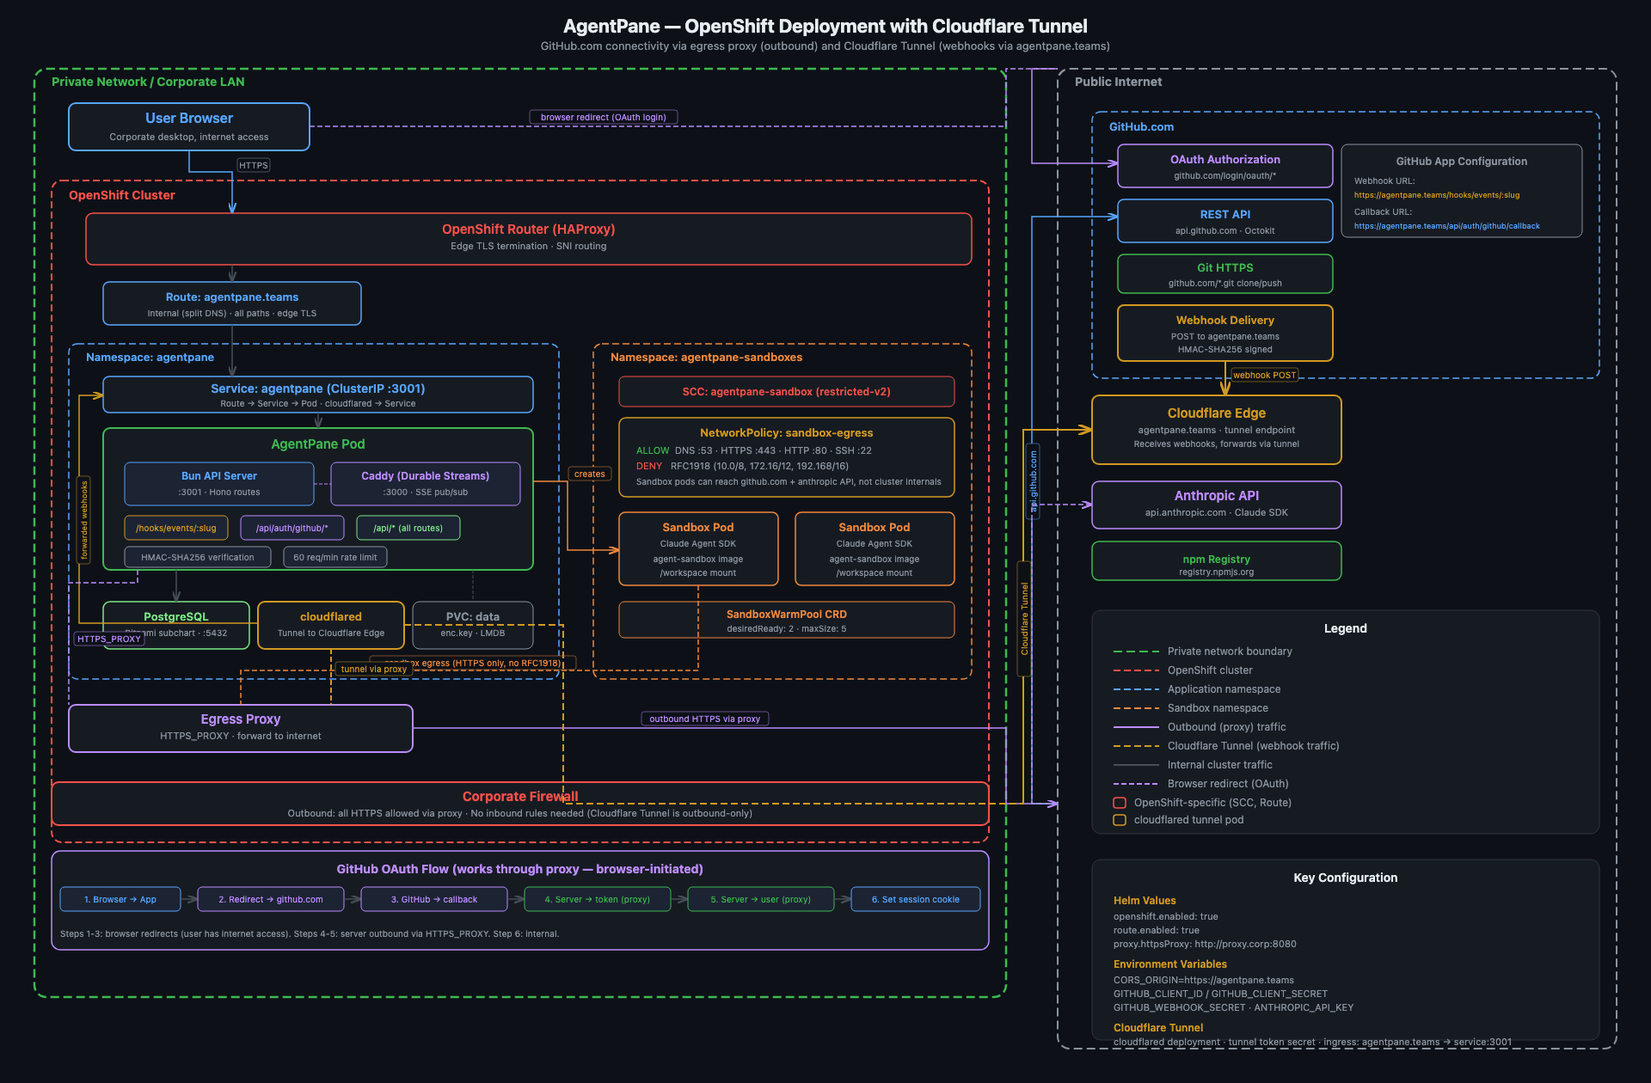
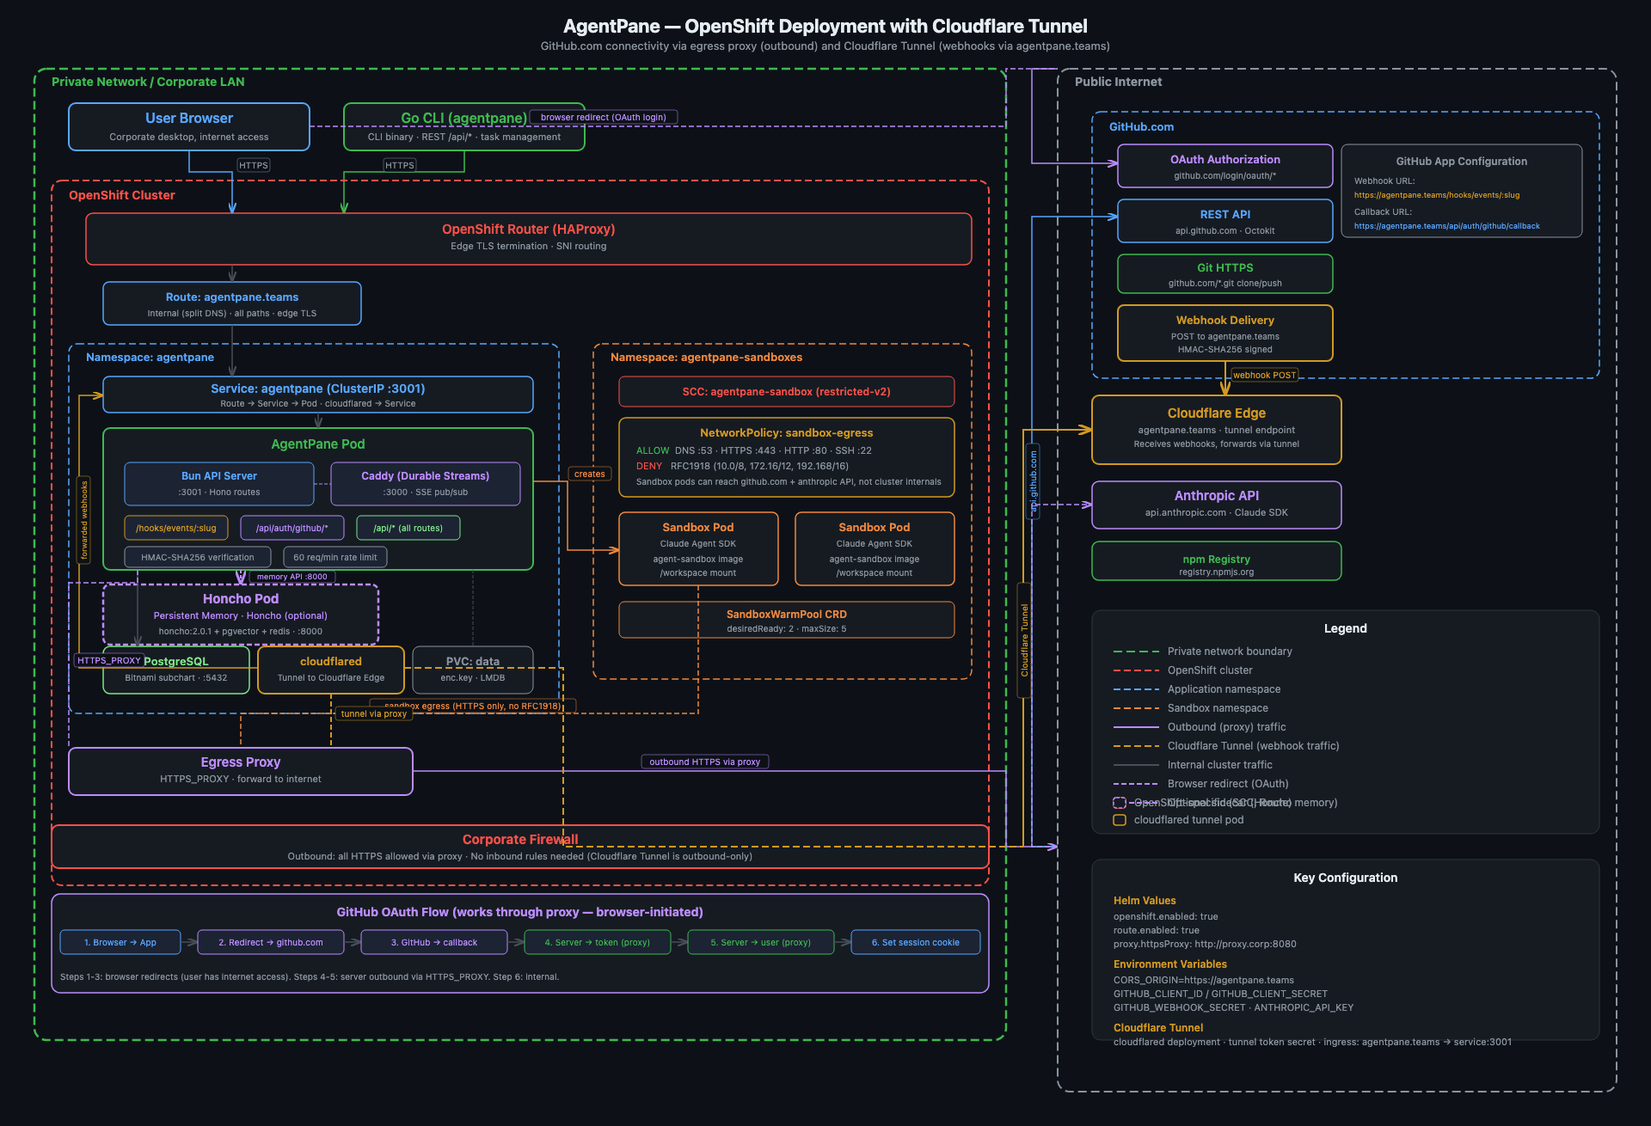
docs: promote CLI + memory layer, regenerate PNGs, expand README
- Promote Go CLI to top-level client alongside Browser in diagrams
- Create dedicated Memory Layer subgraph (Honcho + pgvector + Redis)
- Regenerate all 5 PNG screenshots from updated HTML via Playwright
- Expand README with detailed descriptions for all PR #108-#112 features
- Add Organization section (folder hierarchy), CLI & SDK section
- Add Memory Service integration details under Integrations

diff --git a/docs/_architecture-diagram.html b/docs/_architecture-diagram.html
@@ -10,7 +10,7 @@ svg { display: block; }
 </style>
 </head>
 <body>
-<svg xmlns="http://www.w3.org/2000/svg" viewBox="0 0 1620 1310" width="1620" height="1310">
+<svg xmlns="http://www.w3.org/2000/svg" viewBox="0 0 1620 1280" width="1620" height="1280">
 <defs>
   <marker id="arrow-gray" markerWidth="8" markerHeight="6" refX="8" refY="3" orient="auto">
     <path d="M0,0 L8,3 L0,6" fill="none" stroke="#484f58" stroke-width="1.5"/>
@@ -30,10 +30,13 @@ svg { display: block; }
   <marker id="arrow-green" markerWidth="8" markerHeight="6" refX="8" refY="3" orient="auto">
     <path d="M0,0 L8,3 L0,6" fill="none" stroke="#3fb950" stroke-width="1.5"/>
   </marker>
+  <marker id="arrow-memory" markerWidth="8" markerHeight="6" refX="8" refY="3" orient="auto">
+    <path d="M0,0 L8,3 L0,6" fill="none" stroke="#a855f7" stroke-width="1.5"/>
+  </marker>
 </defs>
 
 <!-- Background -->
-<rect width="1620" height="1310" fill="#0d1117"/>
+<rect width="1620" height="1280" fill="#0d1117"/>
 
 <!-- ==================== TOP ROW: Browser + TanStack DB ==================== -->
 <!-- Browser -->
@@ -46,12 +49,21 @@ svg { display: block; }
 <text x="530" y="48" text-anchor="middle" fill="#58a6ff" font-size="16" font-weight="600">TanStack DB</text>
 <text x="530" y="66" text-anchor="middle" fill="#8b949e" font-size="11">sessions · taskStubs · sandbox · skills · codespaces</text>
 
+<!-- Go CLI Client (NEW - PR #110, promoted to top-level) -->
+<rect x="720" y="25" width="280" height="55" rx="8" fill="#161b22" stroke="#3fb950" stroke-width="2"/>
+<text x="860" y="48" text-anchor="middle" fill="#3fb950" font-size="16" font-weight="700">Go CLI</text>
+<text x="860" y="66" text-anchor="middle" fill="#8b949e" font-size="11">agentpane binary · REST API consumer</text>
+
 <!-- Connection: Browser <-> TanStack DB -->
 <line x1="340" y1="52" x2="400" y2="52" stroke="#484f58" stroke-width="1.5" stroke-dasharray="6,3"/>
 
 <!-- Connection: Browser -> Caddy -->
 <line x1="240" y1="80" x2="240" y2="125" stroke="#484f58" stroke-width="1.5" marker-end="url(#arrow-gray)"/>
 <text x="250" y="107" fill="#8b949e" font-size="10">HTTP</text>
+
+<!-- Connection: Go CLI -> Caddy (top-level) -->
+<path d="M 860 80 L 860 110 L 420 110 L 420 158" fill="none" stroke="#3fb950" stroke-width="1.5" marker-end="url(#arrow-green)"/>
+<text x="870" y="105" fill="#3fb950" font-size="10">REST</text>
 
 <!-- ==================== HOST SECTION (green dashed) ==================== -->
 <rect x="30" y="125" width="1120" height="600" rx="12" fill="none" stroke="#3fb950" stroke-width="2" stroke-dasharray="8,4"/>
@@ -248,8 +260,36 @@ svg { display: block; }
 <!-- Connection: Event tables -> Drizzle ORM -->
 <path d="M 1200 560 L 1170 560 L 1170 342 L 770 342" fill="none" stroke="#d29922" stroke-width="1" stroke-dasharray="4,2"/>
 
+<!-- ==================== MEMORY LAYER (PR #111) ==================== -->
+<rect x="1200" y="640" width="380" height="120" rx="10" fill="none" stroke="#a855f7" stroke-width="2" stroke-dasharray="8,4"/>
+<text x="1220" y="660" fill="#a855f7" font-size="12" font-weight="600">Persistent Memory · Honcho (optional)</text>
+
+<!-- Honcho API -->
+<rect x="1220" y="670" width="160" height="48" rx="8" fill="#161b22" stroke="#a855f7" stroke-width="1.5"/>
+<text x="1300" y="691" text-anchor="middle" fill="#a855f7" font-size="14" font-weight="600">Honcho API</text>
+<text x="1300" y="708" text-anchor="middle" fill="#8b949e" font-size="10">@honcho-ai/sdk · :8000</text>
+
+<!-- pgvector PostgreSQL -->
+<rect x="1220" y="724" width="160" height="28" rx="6" fill="#161b22" stroke="#a855f7" stroke-width="1"/>
+<text x="1300" y="742" text-anchor="middle" fill="#a855f7" font-size="11" font-weight="600">pgvector :5433</text>
+
+<!-- Redis -->
+<rect x="1400" y="670" width="160" height="48" rx="8" fill="#161b22" stroke="#a855f7" stroke-width="1.5"/>
+<text x="1480" y="691" text-anchor="middle" fill="#a855f7" font-size="14" font-weight="600">Redis</text>
+<text x="1480" y="708" text-anchor="middle" fill="#8b949e" font-size="10">cache · :6380</text>
+
+<!-- Connection: Honcho -> pgvector -->
+<line x1="1300" y1="718" x2="1300" y2="724" stroke="#a855f7" stroke-width="1.5" marker-end="url(#arrow-memory)"/>
+
+<!-- Connection: Honcho -> Redis -->
+<line x1="1380" y1="694" x2="1400" y2="694" stroke="#a855f7" stroke-width="1.5" stroke-dasharray="4,2"/>
+
+<!-- Connection: MemoryService -> Honcho API (prominent) -->
+<path d="M 250 471 L 280 471 L 280 510 L 780 510 L 780 660 L 1155 660 L 1155 694 L 1220 694" fill="none" stroke="#a855f7" stroke-width="2" marker-end="url(#arrow-memory)"/>
+<text x="900" y="654" fill="#a855f7" font-size="10" font-weight="600">memory queries</text>
+
 <!-- ==================== LEGEND ==================== -->
-<rect x="1200" y="148" width="310" height="195" rx="10" fill="#161b22" stroke="#30363d" stroke-width="1"/>
+<rect x="1200" y="148" width="310" height="218" rx="10" fill="#161b22" stroke="#30363d" stroke-width="1"/>
 <text x="1355" y="172" text-anchor="middle" fill="#e6edf3" font-size="14" font-weight="600">Legend</text>
 
 <line x1="1222" y1="192" x2="1275" y2="192" stroke="#484f58" stroke-width="2"/>
@@ -271,7 +311,10 @@ svg { display: block; }
 <text x="1285" y="306" fill="#8b949e" font-size="12">Runtime boundary</text>
 
 <line x1="1222" y1="324" x2="1275" y2="324" stroke="#f69d50" stroke-width="2" stroke-dasharray="8,4"/>
-<text x="1285" y="328" fill="#8b949e" font-size="12">AWS cloud boundary (new)</text>
+<text x="1285" y="328" fill="#8b949e" font-size="12">AWS cloud boundary</text>
+
+<line x1="1222" y1="346" x2="1275" y2="346" stroke="#a855f7" stroke-width="2" stroke-dasharray="8,4"/>
+<text x="1285" y="350" fill="#8b949e" font-size="12">Memory layer</text>
 
 <!-- ==================== RUNTIME SECTIONS ==================== -->
 
@@ -347,7 +390,7 @@ svg { display: block; }
 <text x="1148" y="954" fill="#f69d50" font-size="8">SSE</text>
 
 <!-- ==================== EXTERNAL SERVICES ==================== -->
-<rect x="50" y="1110" width="1510" height="170" rx="12" fill="none" stroke="#8b949e" stroke-width="2" stroke-dasharray="8,4"/>
+<rect x="50" y="1110" width="1510" height="140" rx="12" fill="none" stroke="#8b949e" stroke-width="2" stroke-dasharray="8,4"/>
 <text x="70" y="1130" fill="#8b949e" font-size="12" font-weight="600">External Services</text>
 
 <!-- Anthropic API -->
@@ -380,15 +423,7 @@ svg { display: block; }
 <text x="1160" y="1218" text-anchor="middle" fill="#f69d50" font-size="12" font-weight="600">AWS Bedrock API</text>
 <text x="1160" y="1232" text-anchor="middle" fill="#8b949e" font-size="9">STS · ECR · Agent Runtime</text>
 
-<!-- Honcho API (NEW - PR #111) -->
-<rect x="80" y="1248" width="180" height="28" rx="7" fill="#161b22" stroke="#bc8cff" stroke-width="1.5"/>
-<text x="170" y="1264" text-anchor="middle" fill="#bc8cff" font-size="11" font-weight="600">Honcho API</text>
-<text x="170" y="1274" text-anchor="middle" fill="#8b949e" font-size="8">pgvector + Redis</text>
-
-<!-- Go CLI (NEW - PR #110) -->
-<rect x="280" y="1248" width="180" height="28" rx="7" fill="#161b22" stroke="#3fb950" stroke-width="1.5"/>
-<text x="370" y="1264" text-anchor="middle" fill="#3fb950" font-size="11" font-weight="600">Go CLI</text>
-<text x="370" y="1274" text-anchor="middle" fill="#8b949e" font-size="8">agentpane binary</text>
+<!-- Honcho API and Go CLI promoted to dedicated sections above -->
 
 <!-- Connection: GitHub Webhooks -> Event System (drops below service boxes, then far right) -->
 <path d="M 1030 1220 L 1030 1245 L 1580 1245 L 1580 478 L 1160 478" fill="none" stroke="#d29922" stroke-width="1.5" stroke-dasharray="6,3" marker-end="url(#arrow-orange)"/>
@@ -405,14 +440,12 @@ svg { display: block; }
 <!-- Connection: AgentCore -> Anthropic API (left side, routes below Nomad's y=1090 to avoid crossing) -->
 <path d="M 1080 1050 L 1080 1100 L 450 1100 L 450 1145" fill="none" stroke="#bc8cff" stroke-width="1.5" stroke-dasharray="6,3" marker-end="url(#arrow-purple)"/>
 
-<!-- Connection: MemoryService -> Honcho API (NEW) -->
-<path d="M 160 490 L 160 660 L 40 660 L 40 1090 L 70 1090 L 70 1264 L 80 1264" fill="none" stroke="#bc8cff" stroke-width="1" stroke-dasharray="6,3" marker-end="url(#arrow-purple)"/>
+<!-- Connection: MemoryService -> Honcho API moved to Memory Layer section above -->
 
 <!-- Connection: Container Agent -> SkillInjector (NEW) -->
 <line x1="360" y1="504" x2="360" y2="490" stroke="#58a6ff" stroke-width="1" stroke-dasharray="4,2" marker-end="url(#arrow-blue)"/>
 
-<!-- Connection: Go CLI -> Hono API Server (NEW) -->
-<path d="M 370 1248 L 370 1095 L 25 1095 L 25 261 L 70 261" fill="none" stroke="#3fb950" stroke-width="1" stroke-dasharray="6,3" marker-end="url(#arrow-green)"/>
+<!-- Connection: Go CLI -> Hono API Server moved to top-level Go CLI section above -->
 
 </svg>
 </body>

diff --git a/docs/_openshift-deployment.html b/docs/_openshift-deployment.html
@@ -52,14 +52,14 @@ svg { display: block; }
 <text x="220" y="163" text-anchor="middle" fill="#8b949e" font-size="11">Corporate desktop, internet access</text>
 
 <!-- ==================== GO CLI ==================== -->
-<rect x="400" y="120" width="200" height="55" rx="8" fill="#161b22" stroke="#3fb950" stroke-width="2"/>
-<text x="500" y="143" text-anchor="middle" fill="#3fb950" font-size="16" font-weight="600">Go CLI</text>
-<text x="500" y="163" text-anchor="middle" fill="#8b949e" font-size="11">agentpane CLI · REST API client</text>
+<rect x="400" y="120" width="280" height="55" rx="8" fill="#161b22" stroke="#3fb950" stroke-width="2"/>
+<text x="540" y="143" text-anchor="middle" fill="#3fb950" font-size="16" font-weight="600">Go CLI (agentpane)</text>
+<text x="540" y="163" text-anchor="middle" fill="#8b949e" font-size="11">CLI binary · REST /api/* · task management</text>
 
 <!-- Connection: Go CLI -> Router (same route as Browser) -->
-<path d="M 500 175 L 500 200 L 400 200 L 400 248" fill="none" stroke="#3fb950" stroke-width="1.5" marker-end="url(#arrow-green)"/>
-<rect x="406" y="184" width="38" height="16" rx="3" fill="#0d1117" stroke="#8b949e" stroke-width="0.5"/>
-<text x="425" y="196" text-anchor="middle" fill="#8b949e" font-size="10">HTTPS</text>
+<path d="M 540 175 L 540 200 L 400 200 L 400 248" fill="none" stroke="#3fb950" stroke-width="1.5" marker-end="url(#arrow-green)"/>
+<rect x="446" y="184" width="38" height="16" rx="3" fill="#0d1117" stroke="#8b949e" stroke-width="0.5"/>
+<text x="465" y="196" text-anchor="middle" fill="#8b949e" font-size="10">HTTPS</text>
 
 <!-- ==================== OPENSHIFT CLUSTER ==================== -->
 <rect x="60" y="210" width="1090" height="820" rx="12" fill="none" stroke="#f85149" stroke-width="2" stroke-dasharray="8,4"/>
@@ -132,14 +132,15 @@ svg { display: block; }
 <line x1="370" y1="480" x2="370" y2="498" stroke="#484f58" stroke-width="1.5" marker-end="url(#arrow-gray)"/>
 
 <!-- Honcho Pod (optional memory sidecar) -->
-<rect x="120" y="680" width="210" height="55" rx="8" fill="#161b22" stroke="#bc8cff" stroke-width="1.5" stroke-dasharray="6,3"/>
-<text x="225" y="702" text-anchor="middle" fill="#bc8cff" font-size="13" font-weight="600">Honcho Pod</text>
-<text x="225" y="720" text-anchor="middle" fill="#8b949e" font-size="10">honcho:2.0.1 + pgvector + redis</text>
+<rect x="120" y="680" width="320" height="70" rx="8" fill="#161b22" stroke="#bc8cff" stroke-width="2.5" stroke-dasharray="6,3"/>
+<text x="280" y="702" text-anchor="middle" fill="#bc8cff" font-size="15" font-weight="700">Honcho Pod</text>
+<text x="280" y="720" text-anchor="middle" fill="#bc8cff" font-size="11">Persistent Memory &middot; Honcho (optional)</text>
+<text x="280" y="738" text-anchor="middle" fill="#8b949e" font-size="10">honcho:2.0.1 + pgvector + redis &middot; :8000</text>
 
 <!-- Connection: AgentPane Pod -> Honcho Pod (memory API) -->
-<path d="M 255 663 L 255 680" fill="none" stroke="#bc8cff" stroke-width="1.5" stroke-dasharray="4,2" marker-end="url(#arrow-purple)"/>
-<rect x="261" y="664" width="90" height="14" rx="3" fill="#0d1117" stroke="#bc8cff" stroke-width="0.5"/>
-<text x="306" y="674" text-anchor="middle" fill="#bc8cff" font-size="9">memory API :8000</text>
+<path d="M 280 663 L 280 680" fill="none" stroke="#bc8cff" stroke-width="2" stroke-dasharray="4,2" marker-end="url(#arrow-purple)"/>
+<rect x="290" y="664" width="100" height="14" rx="3" fill="#0d1117" stroke="#bc8cff" stroke-width="0.5"/>
+<text x="340" y="674" text-anchor="middle" fill="#bc8cff" font-size="9">memory API :8000</text>
 
 <!-- PostgreSQL -->
 <rect x="120" y="752" width="170" height="55" rx="8" fill="#161b22" stroke="#7ee787" stroke-width="1.5"/>

diff --git a/README.md b/README.md
@@ -10,13 +10,13 @@ Running AI agents in the background creates hard problems: agents need filesyste
 
 ## Architecture
 
-System-level view of the AgentPane platform showing the browser client, TanStack DB, Caddy durable streams, Bun API server, SQLite database, and sandbox infrastructure.
+System-level view of the AgentPane platform showing the browser client, Go CLI, TanStack DB, Caddy durable streams, Bun API server, persistent memory layer (Honcho + pgvector + Redis), skill injection pipeline, SQLite/PostgreSQL database, and multi-provider sandbox infrastructure.
 
 ![AgentPane Architecture](docs/_architecture-diagram.png)
 
 ### Tenancy Model
 
-Authentication, ownership hierarchy, and role-based access control — from GitHub OAuth through the workspace/folder/codespace/task ownership chain.
+Authentication, ownership hierarchy, and role-based access control. Shows the GitHub OAuth flow, workspace/folder/codespace/task ownership chain, folder-level membership with role inheritance, and how RBAC policies cascade from team → folder → codespace level.
 
 ![Tenancy Model](docs/tenancy-model.png)
 
@@ -49,7 +49,7 @@ Webhook ingestion pipeline: external sources (GitHub, Linear, Jira, cron) throug
 - **Session Replay** — Full session history with timeline, event filtering, and play/pause/seek controls
 - **Agent Topology** — Real-time React Flow graph showing live agent activity with ELK auto-layout
 - **AI-Assisted Planning** — Interactive planning sessions where Claude asks clarifying questions before execution
-- **Persistent Memory** — Agent memory powered by Honcho with automatic context injection, conclusion derivation, and semantic search across sessions
+- **Persistent Memory** — Agent memory powered by [Honcho](https://github.com/plastic-labs/honcho) with automatic context injection from previous sessions. The memory service derives conclusions from agent interactions, stores them in pgvector for semantic search, and injects relevant context into new agent prompts. Memory is scoped per-codespace and persists across agent sessions.
 
 ### Task Management
 
@@ -57,7 +57,7 @@ Webhook ingestion pipeline: external sources (GitHub, Linear, Jira, cron) throug
 - **Auto-Start** — Moving a task to "In Progress" automatically assigns and starts an agent
 - **AI Task Creation** — Claude asks multi-round clarifying questions to refine task requirements before submission
 - **Code Review** — Approve or reject agent changes with diff visualization before merge
-- **Live Task View** — 3-column layout with task list sidebar, real-time agent session view, and agent topology graph
+- **Live Task View** — Alternative to the Kanban board: a 3-column layout with resizable task list sidebar (status filters, search, keyboard navigation), real-time agent topology graph (React Flow + ELK auto-layout showing live agent activity), and audit trail panel with session events + live SSE streaming
 
 ### Sandboxed Execution
 
@@ -66,7 +66,7 @@ Webhook ingestion pipeline: external sources (GitHub, Linear, Jira, cron) throug
 - **Nomad Jobs** — HashiCorp Nomad sandbox provider for job-based agent isolation
 - **AWS Bedrock AgentCore** — Managed AWS runtimes with STS auth, ECR image validation, and orphan cleanup
 - **Per-Codespace or Shared** — Choose between a shared container or per-codespace isolation
-- **Skill Injection** — Org and template skills automatically materialized into `.claude/skills/` inside the sandbox before agent execution
+- **Skill Injection** — Tasks can reference a `skillId` that maps to a `.claude/skills/{skillId}/SKILL.md` file. Org and template skills are automatically materialized into the sandbox filesystem before agent execution. The agent prompt includes a lightweight `use skill {name}` directive — the agent reads the full skill content from disk.
 
 ### Terraform No-Code Composer
 
@@ -98,7 +98,17 @@ Webhook ingestion pipeline: external sources (GitHub, Linear, Jira, cron) throug
 - **CLI Monitor** — Real-time monitoring of Claude CLI sessions (`@agentpane/cli-monitor`)
 - **Durable Streams** — Real-time event streaming via Caddy front door (LMDB-backed SSE + long-poll)
 - **Encrypted API Keys** — UI-managed per-service API key storage with masked display
-- **Factory Hook Architecture** — `useEffect` banned; all side effects use purpose-built factory hooks (`useMountEffect`, `useWatchEffect`, `useInterval`, etc.)
+- **Factory Hook Architecture** — `useEffect` is banned via Biome lint rules. All side effects use purpose-built factory hooks: `useMountEffect()` for mount/unmount, `useWatchEffect()` for value changes, `useInterval()`, `useTimeout()`, `useEventListener()`, and `useAutoScroll()`. This eliminates exhaustive dependency lint suppressions and makes intent explicit.
+- **Memory Service** — Optional [Honcho](https://github.com/plastic-labs/honcho) sidecar for persistent agent memory. Deploys via `docker/docker-compose.memory.yml` with pgvector PostgreSQL and Redis. Agents automatically receive relevant context from prior sessions. Supports conclusions (derived facts), document indexing (RAG), and semantic search. Conditional — if Honcho isn't configured, memory endpoints don't exist.
+
+### Organization
+
+- **Folder Hierarchy** — 3-tier organizational model: Workspace → Project Folders → Codespaces. Folders group related codespaces with folder-level RBAC membership. Teams are linked to folders via `team_project_folders`, and access cascades from folder to codespace level.
+
+### CLI & SDK
+
+- **Go CLI** (`agentpane`) — Full-featured command-line interface for AgentPane. Manage codespaces, tasks, agents, sessions, and worktrees from the terminal. Supports JSON output (`-json` flag) for scripting and piping to `jq`. Configuration via environment variables (`AP_API_TOKEN`, `AP_ADDRESS`, `AP_CODESPACE`).
+- **Go SDK** — Typed Go client library at `cli/sdk/` for programmatic API access. Includes typed request/response structs for all API resources.
 
 ## Tech Stack
 

diff --git a/specs/diagrams/01-system-architecture.md b/specs/diagrams/01-system-architecture.md
@@ -8,6 +8,7 @@ In production, Caddy (durable-streams-server) is the single entry point on port 
 flowchart TB
     %% ── Clients ──
     Browser["Browser Client"]
+    GoCLI["Go CLI<br/><small>agentpane binary · REST consumer</small>"]
 
     %% ── Reverse Proxy ──
     subgraph Caddy["Caddy · durable-streams-server :3000"]
@@ -89,8 +90,14 @@ flowchart TB
         AnthropicAPI["Anthropic API<br/><small>Claude Agent SDK<br/>@anthropic-ai/sdk</small>"]
         GitHubAPI["GitHub<br/><small>OAuth · App · Webhooks<br/>Octokit REST + GraphQL</small>"]
         GitWorktrees["Git Worktrees<br/><small>isolated branches<br/>per-task workspaces</small>"]
-        HonchoAPI["Honcho API<br/><small>@honcho-ai/sdk<br/>persistent agent memory</small>"]
-        GoCLI["Go CLI<br/><small>agentpane binary<br/>REST API consumer</small>"]
+    end
+
+    %% ── Memory Layer ──
+    subgraph Memory["Persistent Memory · Honcho"]
+        direction LR
+        HonchoAPI["Honcho API<br/><small>@honcho-ai/sdk · :8000</small>"]
+        PgVector["pgvector<br/><small>PostgreSQL :5433</small>"]
+        Redis["Redis<br/><small>cache :6380</small>"]
     end
 
     %% ── Event Streaming ──
@@ -146,11 +153,14 @@ flowchart TB
     WorktreeSvc --> GitWorktrees
     Services -->|"Octokit"| GitHubAPI
 
-    %% ── Go CLI → API ──
+    %% ── Go CLI → API (same as Browser) ──
+    GoCLI -->|"HTTPS"| Caddy
     GoCLI -->|"REST /api/*"| API
 
-    %% ── Memory → Honcho ──
+    %% ── Memory Layer connections ──
     MemorySvc -->|"@honcho-ai/sdk"| HonchoAPI
+    HonchoAPI --> PgVector
+    HonchoAPI --> Redis
 
     %% ── Skill injection ──
     ContainerAgentSvc --> SkillInjector
@@ -180,8 +190,9 @@ flowchart TB
     classDef sandbox fill:#e0e7ff,stroke:#6366f1,color:#312e81
     classDef external fill:#ccfbf1,stroke:#14b8a6,color:#134e4a
     classDef events fill:#fef9c3,stroke:#eab308,color:#713f12
+    classDef memory fill:#f3e8ff,stroke:#a855f7,color:#581c87
 
-    class Browser client
+    class Browser,GoCLI client
     class Caddy,StaticFiles,StreamsEndpoint,APIProxy proxy
     class Frontend,TanStackStart,UIComponents,ClientState,DurableClient,ReactFlow,DndKit frontend
     class API,Routes,Auth,Validation api
@@ -189,6 +200,7 @@ flowchart TB
     class AgentRuntime,AgentExec,PlanPhase,ExecPhase,TeamMode,StreamHandler,SkillInjector runtime
     class Database,SQLite,PostgreSQL,Drizzle db
     class Sandbox,DockerProv,NomadProv,AgentCoreProv,AgentSandboxProv sandbox
-    class External,AnthropicAPI,GitHubAPI,GitWorktrees,HonchoAPI,GoCLI external
+    class External,AnthropicAPI,GitHubAPI,GitWorktrees external
+    class Memory,HonchoAPI,PgVector,Redis memory
     class Events,EventPublish,SSE,EventPlugins events
 ```

diff --git a/specs/diagrams/09-deployment-architecture.md b/specs/diagrams/09-deployment-architecture.md
@@ -5,6 +5,7 @@ Production deployment uses a single Docker container running Caddy (with the dur
 ```mermaid
 flowchart TB
     INET["Internet / Client Browser"]
+    GOCLI["Go CLI<br/><small>agentpane binary</small>"]
 
     subgraph COMPOSE ["Docker Compose"]
         subgraph MAIN ["agentpane container"]
@@ -53,6 +54,7 @@ flowchart TB
     end
 
     INET -- "HTTPS" --> CADDY
+    GOCLI -- "REST /api/*" --> CADDY
     PROXY -- "flush_interval -1<br/>(streaming)" --> HONO
     HONO --> SERVICES
     SERVICES --> SQLITE
@@ -71,7 +73,8 @@ flowchart TB
     style BUN fill:#14532d,color:#e2e8f0
     style STORAGE fill:#713f12,color:#e2e8f0
     style SANDBOX fill:#581c87,color:#e2e8f0
-    style HONCHO fill:#4a1d6e,color:#e2e8f0
+    style HONCHO fill:#4a1d6e,color:#e2e8f0,stroke:#bc8cff,stroke-width:2px
+    style GOCLI fill:#1a3a2a,color:#3fb950,stroke:#3fb950,stroke-width:2px
 ```
 
 ## Docker Images
